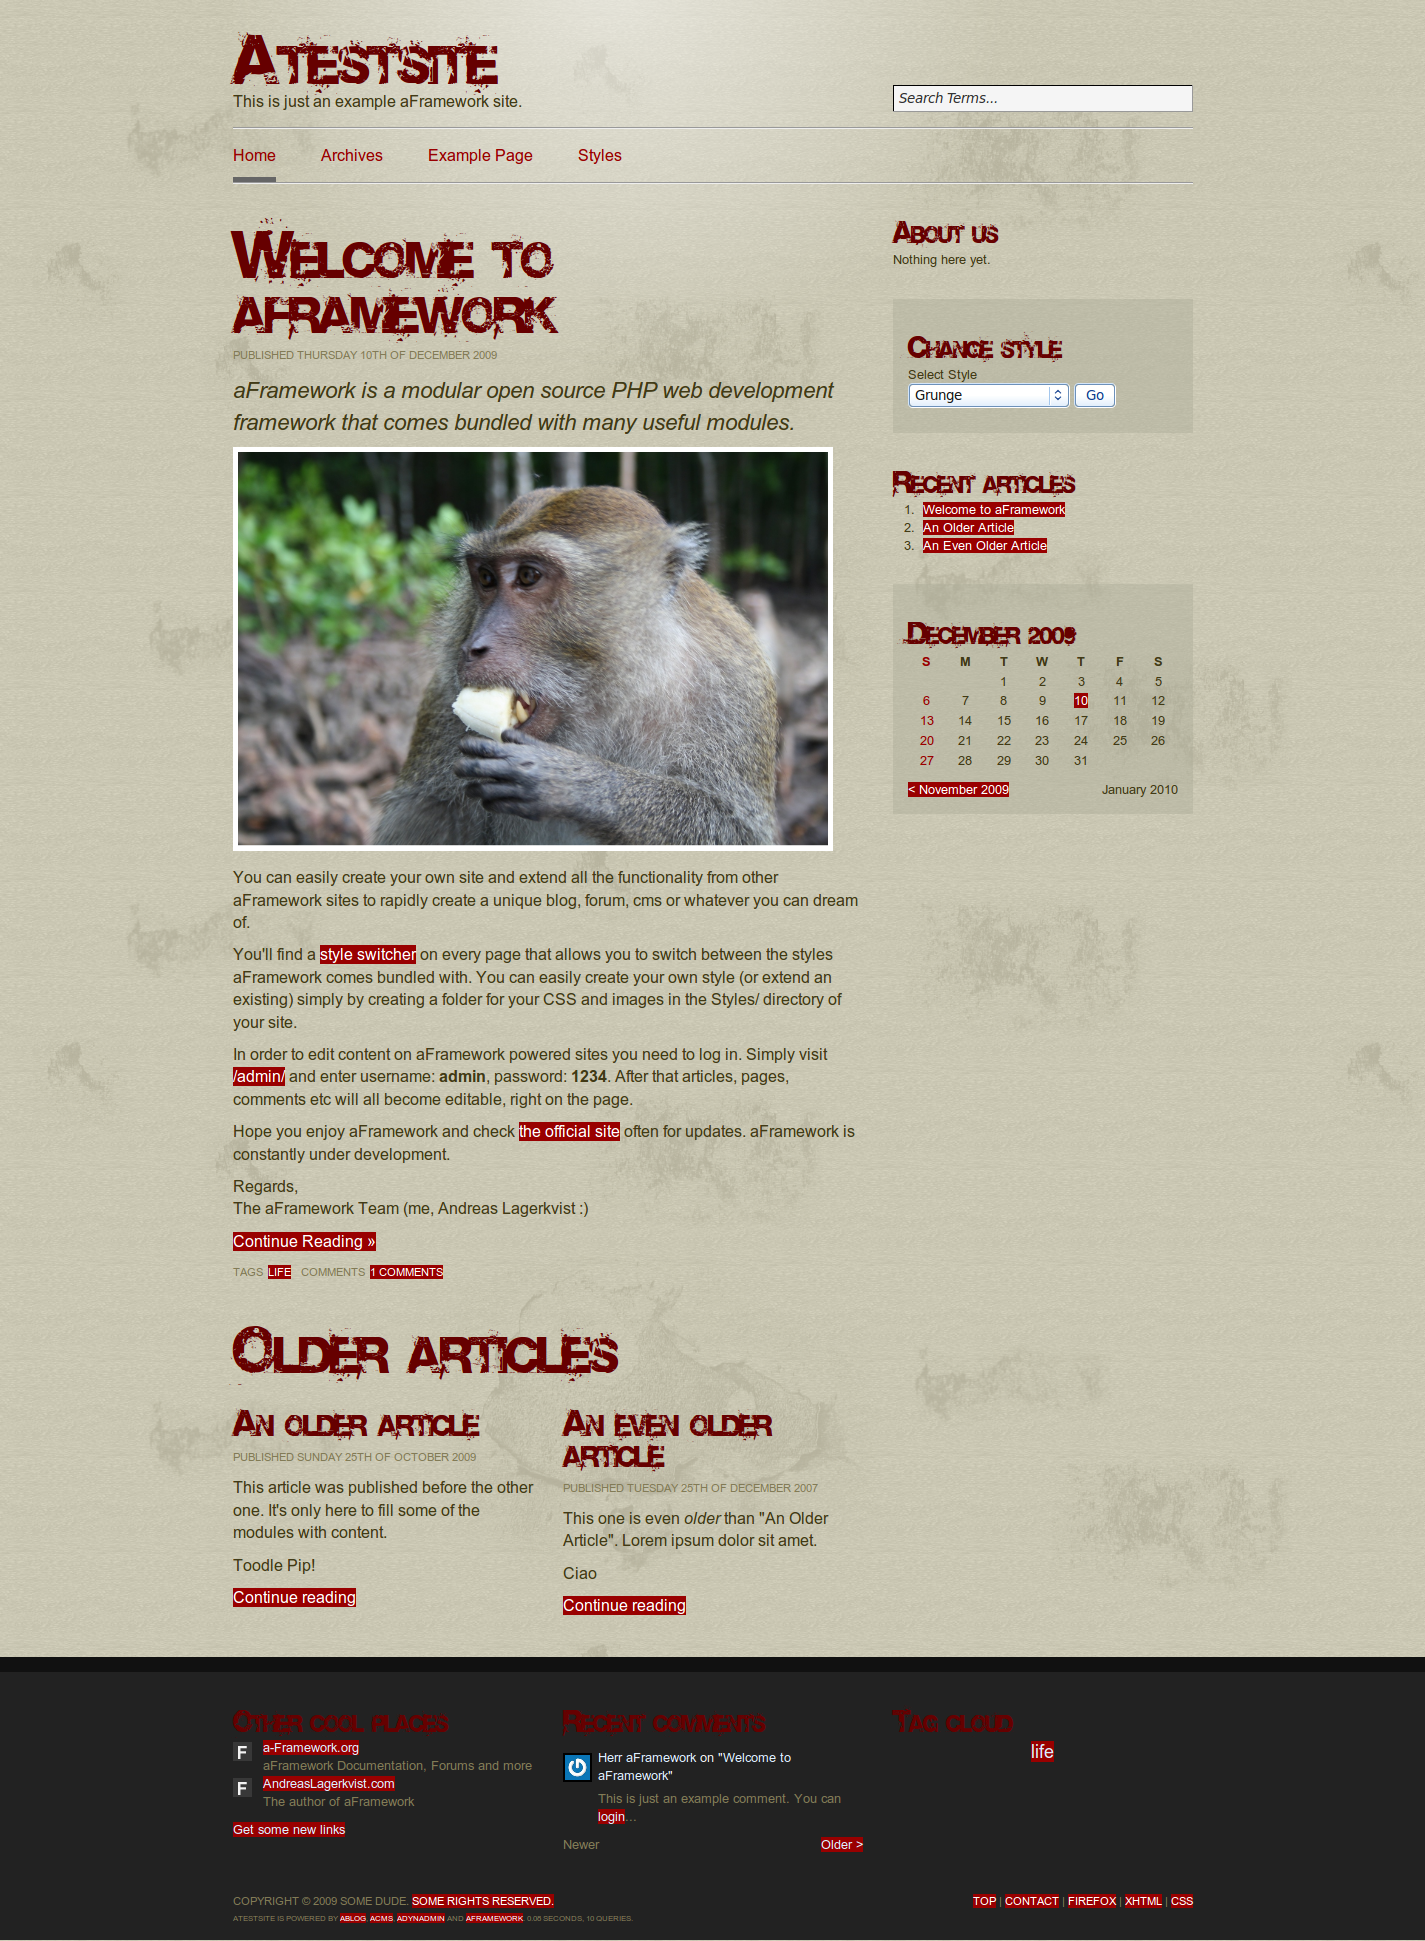
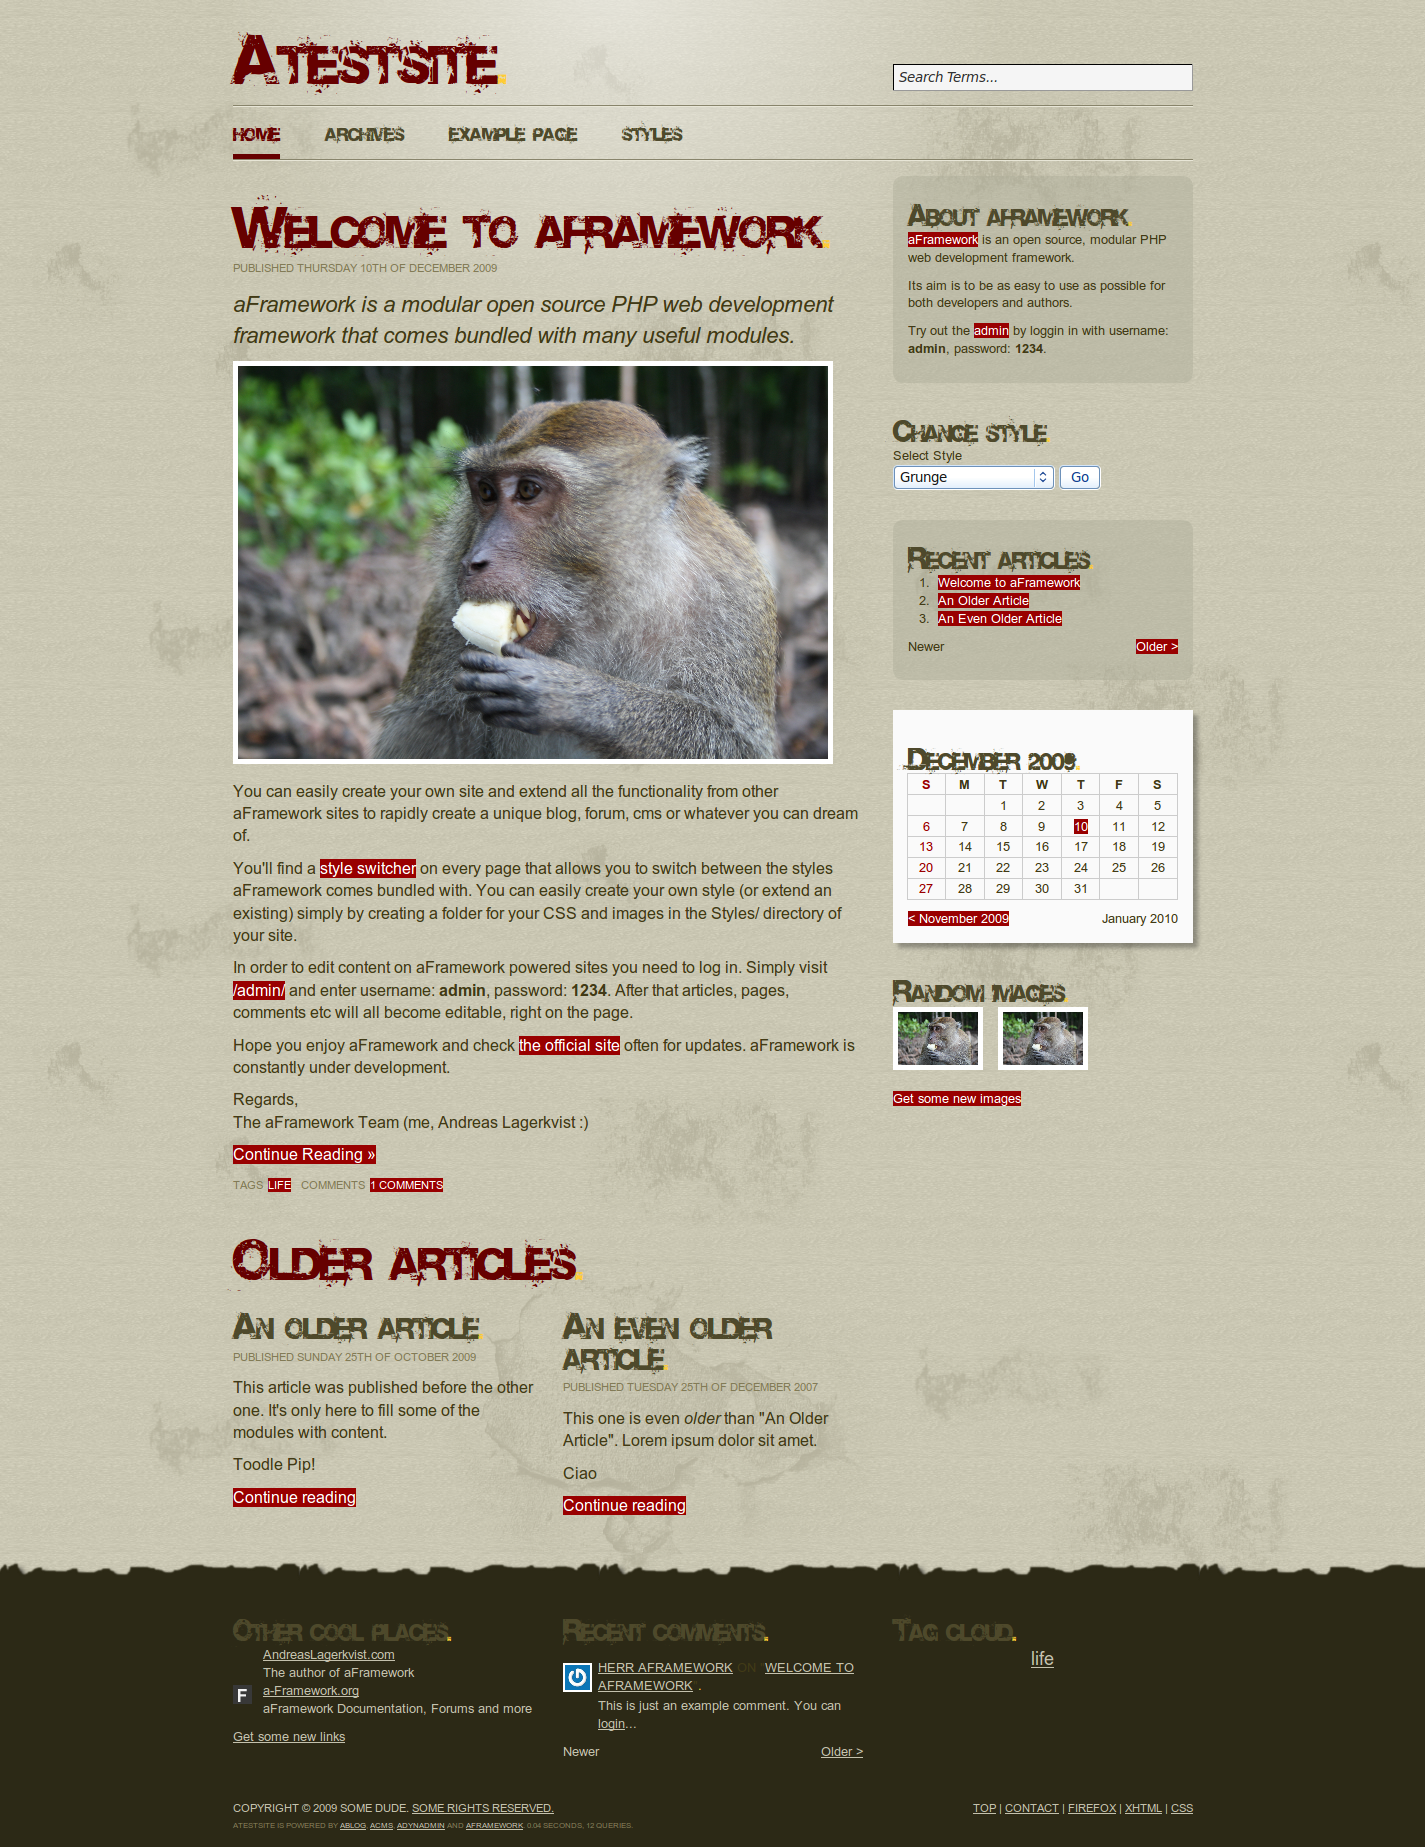
Some styling and some fixing

diff --git a/__v3/aBlog/Modules/RandomArticleImages/RandomArticleImages.css b/__v3/aBlog/Modules/RandomArticleImages/RandomArticleImages.css
@@ -7,7 +7,9 @@
 	#random-article-images ul li {
 		width: 30%;
 		margin-right: 5%;
+		margin-bottom: 10px;
 		display: inline-block;
+		vertical-align: middle;
 	}
 
 	#random-article-images ul li:nth-child(3n) {
@@ -16,7 +18,7 @@
 
 		#random-article-images ul li a {
 			display: block;
-			border: 2px solid #fff;
+			border: 5px solid #fff;
 		}
 
 			#random-article-images ul li a img {

diff --git a/__v3/aFramework/Styles/grunge/01-general.css b/__v3/aFramework/Styles/grunge/01-general.css
@@ -40,8 +40,9 @@ h4,
 h5, 
 h6 {
 	margin: 15px 0 2px;
-	font: 300%/1.2 "Base 02", sans-serif;
+	font: 300%/1.2 "Base 02", Georgia, serif;
 	letter-spacing: -1px;
+	text-transform: uppercase;
 	color: #600;
 	text-shadow: none;
 }
@@ -178,4 +179,8 @@ $stain-box {
 
 	$stain-box h2 {
 		margin-top: 5px;
+	}
+
+	$stain-box textarea.markItUpEditor {
+		width: 217px !important;
 	}

diff --git a/__v3/aFramework/Styles/clean/01-general.css b/__v3/aFramework/Styles/clean/01-general.css
@@ -19,3 +19,7 @@ $glass-box {
 	background: url(gfx/glass-box.png) no-repeat -10px -10px;
 	padding: 15px;
 }
+
+	$glass-box textarea.markItUpEditor {
+		width: 217px !important;
+	}

diff --git a/__v3/aBlog/Modules/RecentComments/RecentComments.css b/__v3/aBlog/Modules/RecentComments/RecentComments.css
@@ -18,7 +18,7 @@
 			width: 25px;
 			height: 25px;
 
-			border: 2px solid #000;
+			border: 2px solid #fff;
 		}
 
 		#recent-comments ol li img:hover {

diff --git a/__v3/aFramework/Styles/basic-960/older-articles.css b/__v3/aFramework/Styles/basic-960/older-articles.css
@@ -16,3 +16,7 @@
 		#older-articles ol li:nth-child(odd) {
 			margin-right: 30px;
 		}
+
+			#older-articles ol li img {
+				display: none;
+			}

diff --git a/__v3/aBlog/Modules/RandomArticleImages/RandomArticleImagesModule.php b/__v3/aBlog/Modules/RandomArticleImages/RandomArticleImagesModule.php
@@ -5,7 +5,7 @@
 
 		public static function run () {
 			$images			= Articles::getImages();
-			$numImages		= count($images) > 9 ? 0 : count($images);
+			$numImages		= count($images) > 12 ? 12 : count($images);
 			$randImageIDs	= array_rand($images, $numImages);
 			$randImages		= array();
 
